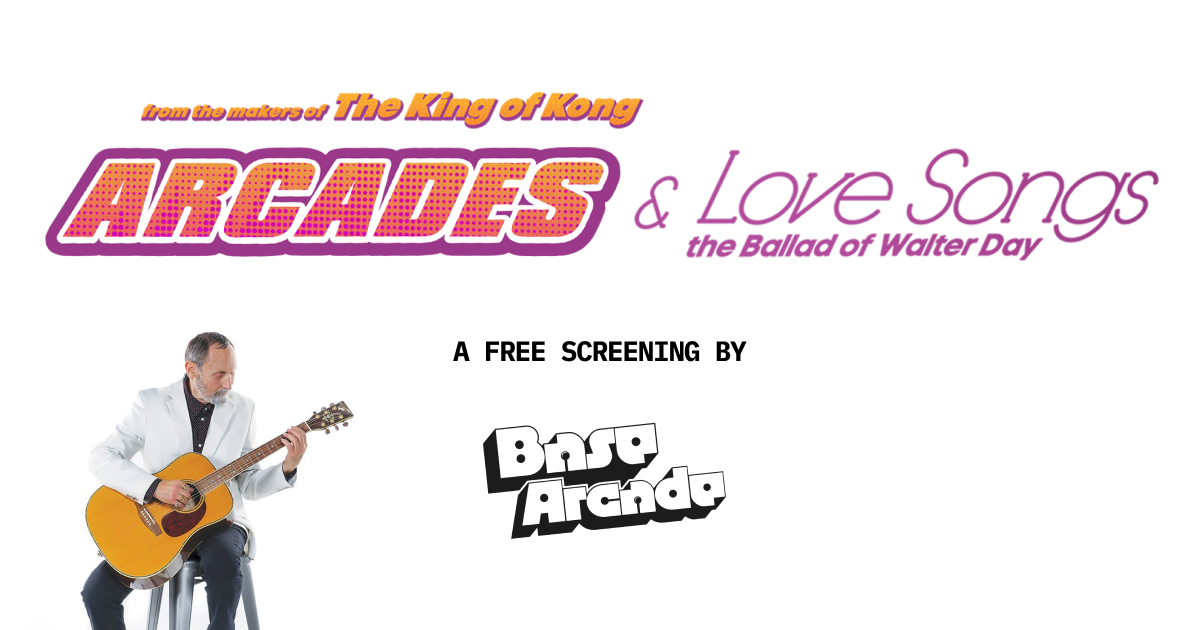
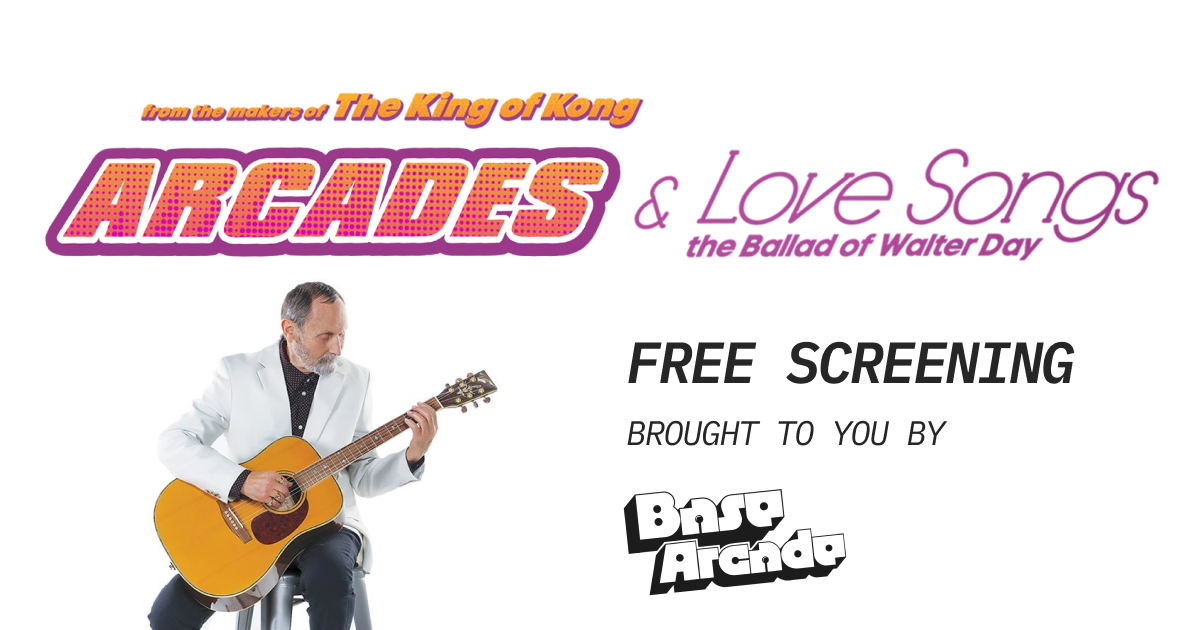
og img change

Changed region(s): [[0.0617, 0.4222, 0.8942, 1.0], [0.4008, 0.6635, 0.8017, 0.9651]]

diff --git a/walter-day-screening/index.html b/walter-day-screening/index.html
@@ -9,11 +9,11 @@
 <meta property="og:title" content="Base Arcade presents Arcade's Love Songs — A Walter Day Screening" />
 <meta property="og:description" content="A free screening at Base Arcade. Grab your ticket." />
 <meta property="og:url" content="https://basearcade.com/walter-day-screening/" />
-<meta property="og:image" content="https://basearcade.com/walter-day-screening/og-walter.png" />
+<meta property="og:image" content="https://basearcade.com/walter-day-screening/og-walter.png?v2" />
 <meta property="og:image:width" content="1200" />
 <meta property="og:image:height" content="630" />
 <meta name="twitter:card" content="summary_large_image" />
-<meta name="twitter:image" content="https://basearcade.com/walter-day-screening/og-walter.png" />
+<meta name="twitter:image" content="https://basearcade.com/walter-day-screening/og-walter.png?v2" />
 
 <link rel="apple-touch-icon" sizes="180x180" href="/apple-icon-180x180.png">
 <link rel="icon" type="image/png" sizes="32x32" href="/favicon-32x32.png">
